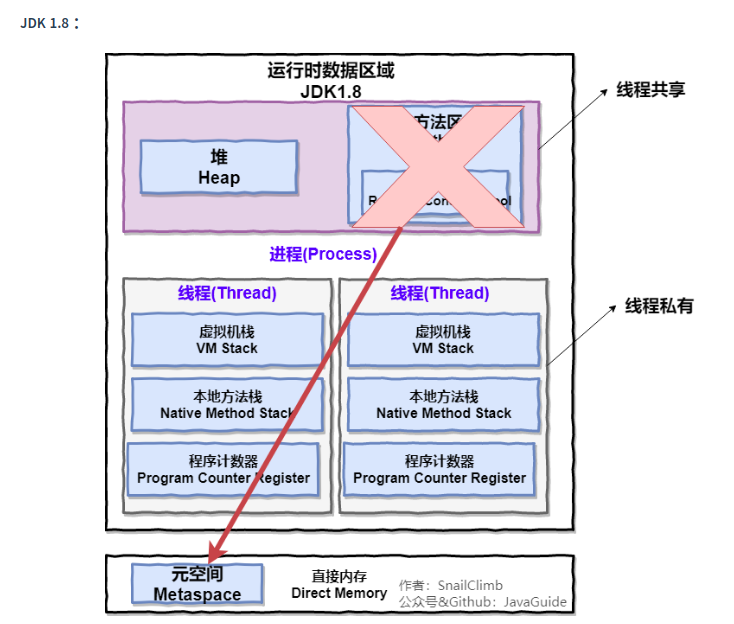
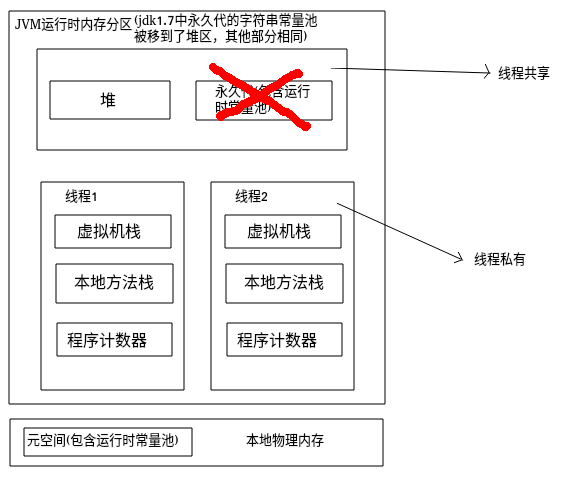
fix:更新GC错误之处

diff --git a/jdk_jvm_juc-learning/src/main/java/com/github/guang19/T.java b/jdk_jvm_juc-learning/src/main/java/com/github/guang19/T.java
@@ -1,5 +1,6 @@
 package com.github.guang19;
 
+
 /**
  * @author yangguang
  * @date 2020/3/2
@@ -7,10 +8,10 @@ package com.github.guang19;
  */
 public class T
 {
-    private final String a1 = "a";
-    private static final String a2 = "a";
     public static void main(String[] args)
     {
+        byte[] bytes1 = new byte[1024 * 1024 * 15];
+        byte[] bytes2 = new byte[1024 * 1024 * 15];
 
     }
 }

diff --git a/jdk_jvm_juc-learning/src/main/java/com/github/guang19/jvm/gcs/G1GC.java b/jdk_jvm_juc-learning/src/main/java/com/github/guang19/jvm/gcs/G1GC.java
@@ -11,7 +11,7 @@ public class G1GC {
 
     /**
      *
-     * 因为我的机器的jdk版本是11,所以无需指定垃圾回收器
+     * 因为我的机器的jdk版本是11,默认的垃圾回收器就是G1,所以无需指定
      * 指定G1回收器的参数是: -XX:+UseG1GC
      *
      * G1回收和CMS相似分4个阶段,但和CMS不同的是,G1的所有阶段都不需要停顿:

diff --git a/springmvc-learning/src/main/java/com/springmvclearning/SpringmvcLearningApplication.java b/springmvc-learning/src/main/java/com/springmvclearning/SpringmvcLearningApplication.java
@@ -3,6 +3,8 @@ package com.springmvclearning;
 import org.springframework.boot.SpringApplication;
 import org.springframework.boot.autoconfigure.SpringBootApplication;
 
+
+
 @SpringBootApplication
 public class SpringmvcLearningApplication {
 

diff --git a/jdk_jvm_juc-learning/Jdk&Jvm&Juc.md b/jdk_jvm_juc-learning/Jdk&Jvm&Juc.md
@@ -1019,6 +1019,7 @@ Java中的IO模型，也只是换汤不换药。
 ```java
 个人认为《深入理解Java虚拟机》上的部分内容已经过时
 有些知识请各位同学明鉴
+本部分如有错误之处，敬请各位同学issue
 ```
 
 #### JVM运行时内存分区
@@ -1027,7 +1028,7 @@ Java中的IO模型，也只是换汤不换药。
 * JDK8之前:
 >线程私有的部分有:程序计数器(PC寄存器),JAVA虚拟机栈,本地方法栈(native)。
 
->线程共享部分有: GC堆,永久代(是方法区的一种实现,永久代包含运行时常量池),
+>线程共享部分有: GC堆,永久代(是方法区的一种实现)。
 
 ![jdk8之前的jvm内存分区](../img/jdk8之前的JVM内存分区.png)
 
@@ -1038,7 +1039,8 @@ Java中的IO模型，也只是换汤不换药。
 ![jdk8之后的jvm内存分区](../img/jdk8之后的jvm内存分区.png)     
     
 #### 程序计数器
->程序计数器是一块较小的内存空间，它的作用是作为当前线程执行的字节码的行号指示器。
+>程序计数器是一块较小的内存空间，
+>它的作用是作为当前线程执行的字节码的行号指示器。
 >当字节码解释器工作时，通过改变行号计数器的值来选取下一条要执行的字节码指令。
 >分支，循环，跳转，异常处理，线程恢复等功能都需要依赖程序计数器完成。
 
@@ -1049,7 +1051,7 @@ Java中的IO模型，也只是换汤不换药。
 
 ##### 程序计数器的特点
 1. 如果当前线程执行的是java方法，那么程序计数器记录的是字节码指令的地址。
-2. 如果当前线程执行的native方法，那么程序计数器记录的值为空。
+2. 如果当前线程执行的native方法，那么程序计数器记录的值为空(undefined)。
 3. 程序计数器这部分内存区域是JVM中唯一不会出现OOM错误的区域
 4. 程序计数器的生命周期与线程相同,即程序计数器随着线程创建而创建，
    随着线程的销毁而销毁。
@@ -1151,34 +1153,49 @@ Class文件常量池如下(javap -c -v -l 反编译class文件后的字节码):
 >永久代(Permanent Generation),但永久代已被元空间代替,
 >元空间存储的是类的元信息，几乎不可能发生GC。
 
->新生代再细分可以分为: Eden空间，From Survivor空间和 To Survivor空间。
->其中新生代占堆区的 1/3,老年代占堆区的2/3.
->eden空间占新生代的80%,FromSurvivor和ToSurvivor的空间占比为1:1.
+>新生代再细分可以分为: Eden空间，From Survivor空间和To Survivor空间。
+>
+>缺省状态下新生代占堆区的 1/3,老年代占堆区的2/3，
+>eden空间占新生代的80%,2个Survivor空间栈新生代的20%,
+>FromSurvivor和ToSurvivor的空间占比为1:1。
+>
+>(通过-XX:+NewRatio参数可以调整新生代和老年代的空间占比)
+>(通过-XX:+SurvivorRatio参数可以调整eden和survivor的空间占比)
 >
 >发生在新生代的GC叫做Young GC或Minor GC,
 >发生在老年代的GC叫做Old GC或Major GC
 
 <u>PS:
+FromSurvivor和ToSurvivor这两块内存空间并不是固定的，
+在进行GC的时候，这两块内存会轮流替换使用。这部分内容参考GC部分。</u>
+
+
+<u>PS:
 有的文章说 Full GC与Major GC一样是属于对老年代的GC，
 也有的文章说 Full GC 是对整个堆区的GC，所以这点需要各位同学自行
-分辨Full GC语义。</u>
-
-堆:
+分辨Full GC语义。
+见: [知乎讨论](https://www.zhihu.com/question/41922036)</u>
 
 ![堆内存分区](../img/堆内存分区.png)
 
-#### 方法区与元空间
+#### 方法区
 
->方法区在JVM规范里是各个线程共享的一部分区域，它用于存储已被jvm加载的类的元信息，
->包括Class常量池等数据。
+>方法区在JVM规范里是各个线程共享的一部分区域，
+>它用于存储已被jvm加载的类的元信息，运行时常量池等数据。
 
-<u>方法区在逻辑上是属于堆区的。</u>
-
->HotSpot虚拟机对于方法区的实现在jdk8之前为永久代，在jdk8之后，HotSpot移除了永久代，
->新增了元空间。
+>HotSpot虚拟机对于方法区的实现在jdk8之前为永久代，在jdk8之后，
+>HotSpot移除了永久代，新增了元空间。
 >
 >元空间使用的是本地内存，所以元空间仅受本地物理内存的限制。
->元空间存储着已被加载的类的元信息，字符串常量池从永久代转移到了堆内存之中。
+>元空间存储着已被加载的类的方法描述，字段描述，运行时常量池等信息。
+
+<u>字符串常量池在jdk7已经从永久代转移到了堆内存之中。</u>
+
+<u>方法区在逻辑上是属于堆区的。
+在jdk8之前，堆区在GC时会回收永久代。
+但jdk8之后的元空间归属于物理内存，
+存储的都是常量，几乎不可能发生GC。
+**无论是永久代还是元空间，都有可能发生OOM。**</u>
 
 ### JavaVirtualMachineError
   
@@ -1300,7 +1317,7 @@ Class文件结构如下:
 6. 当初始化一个子类的时候，会先初始化这个子类的所有父类，然后才会初始化这个子类。
 7. 当一个类是启动类时，即这个类拥有main方法，那么jvm会首先初始化这个类。
 8. MethodHandle和VarHandle可以看作是轻量级的反射调用机制，而要想使用这2个调用，
-就必须先使用findStaticVarHandle来初始化要调用的类。
+就必须先使用findStatic/findStaticVarHandle来初始化要调用的类。
 
 
 PS:见:[测试](https://github.com/guang19/framework-learning/blob/master/jdk_jvm_juc-learning/src/main/java/com/github/guang19/jvm/classloader/LoadClass.java)
@@ -1318,7 +1335,7 @@ PS:见:[测试](https://github.com/guang19/framework-learning/blob/master/jdk_jv
 
 >在JVM的生命周期中，被JVM自带的类加载器所加载的类是不会被
 >卸载的。而被我们自定义的类加载器所加载的类是可能会被卸载的。
-
+>
 >其实只要想通一点就好了，jdk自带的BootstrapClassLoader，
 >PlatformClassLoader和AppClassLoader负责加载jdk提供的
 >类，它们(类加载器)的实例肯定不会被回收，其中BootstrapClassLoader在java中
@@ -1347,7 +1364,7 @@ PS:见:[测试](https://github.com/guang19/framework-learning/blob/master/jdk_jv
 >JVM会判断这个类是否已经被其类加载器加载过了。
 >如果已经加载过了，那么直接返回这个类。
 >如果没有加载，就使用这个类对应的加载器的父类加载器判断，
->一层一层的判断，最终可能会由BootstrapClassLoader判断。
+>一层一层的往上判断，最终可能会由BootstrapClassLoader判断。
 >如果BootstrapClassLoader判断都没有加载这个类,
 >那么就由BootstrapClassLoader尝试加载。
 >如果BootstrapClassLoader加载失败了，
@@ -1432,7 +1449,7 @@ Character的缓存范围为 0 - 127。</u>
 >节点走过的路径被称为引用链,如果一个对象不处于任何引用链,
 >那么此对象是不可达的。
           
-#### 什么是GC Root
+#### 什么是GC Root ?
 >上面说通过GC Root对象搜索引用链,那么GC Root对象是什么对象,
 >或者说什么样的对象是GC Root对象.
 >可以作为GC Root对象的有: 
@@ -1443,7 +1460,7 @@ Character的缓存范围为 0 - 127。</u>
 
 ![可达性算法](../img/可达性算法.png)      
         
-#### 垃圾回收算法
+### 垃圾回收算法
 常见的垃圾回收算法主要有以下4种:
 1. 复制算法
 2. 标记-清除算法
@@ -1456,9 +1473,9 @@ Character的缓存范围为 0 - 127。</u>
 >当其中一块内存使用完后，
 >就将仍然存活的对象复制到另一块空闲内存空间，再清理已使用的内存。
 
-复制算法的优点是不会产生连续的内存碎片，速度也很高效。
+**复制算法的优点是不会产生连续的内存碎片，速度也很高效。
 但是缺点更明显:每次只使用内存的一半，就代表可使用的内存减少了1/2，
-代价很高昂。
+代价很高昂。**
 
 >复制算法一般用于新生代。因为新生代的GC非常频繁，每次GC的对象较多，
 >存活的对象较少。
@@ -1473,8 +1490,9 @@ Character的缓存范围为 0 - 127。</u>
 统一回收所有被标记的对象。
 
 标记-清除算法的缺点主要有2个:
-2. 标记和清除2个阶段的耗时都比较长，可以总结为效率较低。
-1. 对象在内存中的分布可能是不连续的，分散的，
+
+1. 标记和清除2个阶段的耗时都比较长，可以总结为效率较低。
+2. 对象在内存中的分布可能是不连续的，分散的，
 标记-清除后可能造成不连续的内存碎片。当内存碎片过多后，
 后续想要分配较大的对象时，无法找到足够大的内存碎片，
 可能又需要触发GC。
@@ -1482,7 +1500,7 @@ Character的缓存范围为 0 - 127。</u>
 >标记-清除算法和标记-整理算法一样，一般用于老年代。
 >因为老年代中的对象存活率较高，几乎很少被回收，
 >所以标记-清除和标记-整理算法GC的时间不会太长，
->GC的对象较年轻代更少。
+>GC的对象相比新生代更少。
 
 ![标记-清除算法](../img/标记-清除算法.png)
       
@@ -1494,19 +1512,62 @@ Character的缓存范围为 0 - 127。</u>
 >但标记之后并不直接清理被标记的对象，
 >而是使仍然存活的对象向内存一端移动，然后清理掉这一端外的内存。
          
-标记-整理算法的优点是:
+**标记-整理算法的优点是:
 几乎不会如标记-清除算法那样产生不连续的内存碎片。
-但，所谓慢工出细活。标记-整理的效率大概率上都是比标记-清除要低的。         
+但，所谓慢工出细活。标记-整理的效率大多时候都是比标记-清除要低的。**         
+
+标记-整理算法和标记-清除算法一样，一般用于老年代。        
          
 ![标记-整理算法](../img/标记-整理算法.png)         
          
 #### 分代收集算法
 >分代收集算法并不是指某一种具体的垃圾收集算法，
 >而是将复制，标记-清除，标记-整理等算法合理运用到堆区的不同空间，
->比如年轻代使用复制算法，老年代使用标记清除或标记整理算法。
+>比如新生代使用复制算法，老年代使用标记清除或标记整理算法。
 >
 >现代的几乎所有的JVM都使用分代收集，毕竟每种算法都有优缺点，
->结合它们的特点，对不同的环境采用不同的算法是非常明智的选择
+>结合它们的特点，对不同的环境采用不同的算法是非常明智的选择。
+
+#### 内存分配与垃圾回收策略
+1. 对象优先在eden区域被分配
+2. 大对象将直接进入老年代
+(大对象是指需要大量连续的内存空间的对象，如长字符串，大数组等。)
+3. 长期存活的对象将进入老年代
+
+#### 一次GC的过程
+对象优先在eden区被分配，当eden区内存不足时，
+JVM发起Minor GC。Minor GC的范围包括eden和From Survivor。
+
+>首先JVM会根据可达性算法标记出所有存活的对象。
+>
+>如果存活的对象中，有的对象的年龄已经达到晋升阈值
+>(阈值是动态计算的，可以通过-XX:MaxTenuringThreshold设置最大的阈值)，
+>那么将已经达到阈值的对象复制到老年代中。
+>
+>如果To Survivor空间不足以存放剩余存活对象，
+>则直接将存活的对象提前复制到老年代。
+>如果老年代也没有足够的空间存放存活的对象，
+>那么将触发Full GC(GC整个堆，包括新生代和老年代)。
+>
+>如果To Survivor可以存放存活的对象，
+>那么将对象复制到To Survivor空间，并清理eden和From Survivor。
+>
+>此时From Survivor为空，
+>那么From Survivor就成为了下一次的To Survivor，
+>此时To Survivor存放着存活的对象，就成为了下一次的From Survivor。
+>这样From Survivor与To Survivor就是不断交替复制的使用。
+>同时可以明白,老年代中的对象很多都是不易被回收的对象。
+
+<u>老年代的空间比新生代的空间要大，
+所以老年代的Major GC要比Minor GC耗时更长。
+根据垃圾回收器的不同，老年代的GC算法也不同。</u>
+
+#### 动态年龄阈值
+>JVM并不要求对象年龄一定要达到 MaxTenuringThreshold 才会
+>晋升到老年代，晋升的年龄阈值是动态计算的。
+>如果在Survivor中，某个相同年龄阶段的所有对象大小的总和
+>大于Survivor区域的一般，则大于等于这个年龄的所有对象
+>可以直接进入老年代，无需等到MaxTenuringThreshold。
          
 ### 垃圾回收器
 
@@ -1526,7 +1587,7 @@ Character的缓存范围为 0 - 127。</u>
    
 ````java
    
-/** 开启串行收集器使用 -XX:+UseSerialGC , 这样默认年轻代使用 Serial 收集器,
+/** 开启串行收集器使用 -XX:+UseSerialGC , 这样默认新生代使用 Serial 收集器,
   * 老年代使用 Serial Old 收集器. 
   *
   * 设置VM参数:
@@ -1560,7 +1621,7 @@ Character的缓存范围为 0 - 127。</u>
      * 
      * ParallelGC老年代默认使用的 Parallel Old GC 回收器
      * 
-     * 并行收集器打印的年轻代的信息为:
+     * 并行收集器打印的新生代的信息为:
      *  PSYoungGen ....
      *  
      *  老年代的信息为:
@@ -1588,7 +1649,8 @@ Character的缓存范围为 0 - 127。</u>
 ````           
         
 #### CMS 并发标记清除收集器
->Concurrent Mark Sweep,并发标记-清除垃圾回收器,是第一款真正意义上的垃圾回收器,
+>Concurrent Mark Sweep,并发标记-清除垃圾回收器,
+>是第一款真正意义上的垃圾回收器,
 >见名知意,使用的是标记-清除回收算法.它允许垃圾回收线程和用户线程同时工作.
 >但是它的缺点也很明显就是标记-清除算法的缺点:会产生不连续的内存碎片,而且并发
 >执行用户线程和收集线程,对cpu消耗较大.
@@ -1599,7 +1661,7 @@ Character的缓存范围为 0 - 127。</u>
      * 设置 CMS 收集器参数:
      * -XX:+UseConcMarkSweepGC
      *
-     * 使用ConcMarkSweepGC收集器后,它的年轻代使用的是:
+     * 使用ConcMarkSweepGC收集器后,它的新生代使用的是:
      * ParNew收集器.
      *
      * 当ConcMarkSweepGC收集器出现异常时,会将CMS替换成Serial Old收集器
@@ -1626,11 +1688,11 @@ Character的缓存范围为 0 - 127。</u>
 >它从整体看是使用标记-整理算法,从局部看使用复制算法,
 >因此它不会产生内存碎片.其他收集器包括CMS收集器,在执行过程中,
 >都会有停顿,而G1收集器不仅追求最短的停顿,而且可以预测停顿时间.
->G1从宏观上不再分为年轻代和老年代的概念,而是将内存分为一个个Region分区.
+>G1从宏观上不再分为新生代和老年代的概念,而是将内存分为一个个Region分区.
 >但是在逻辑上还是保留了分代的概念,这些Region分区就随着G1在运行中不断
 >的变化着分代.
 >
->有的Region是Eden区,有的Region是Suvivor区,有的Region是Old区,
+>有的Region是Eden区,有的Region是Survivor区,有的Region是Old区,
 >有的Region是存储着大对象(Humongons)的区域
 ````java
 
